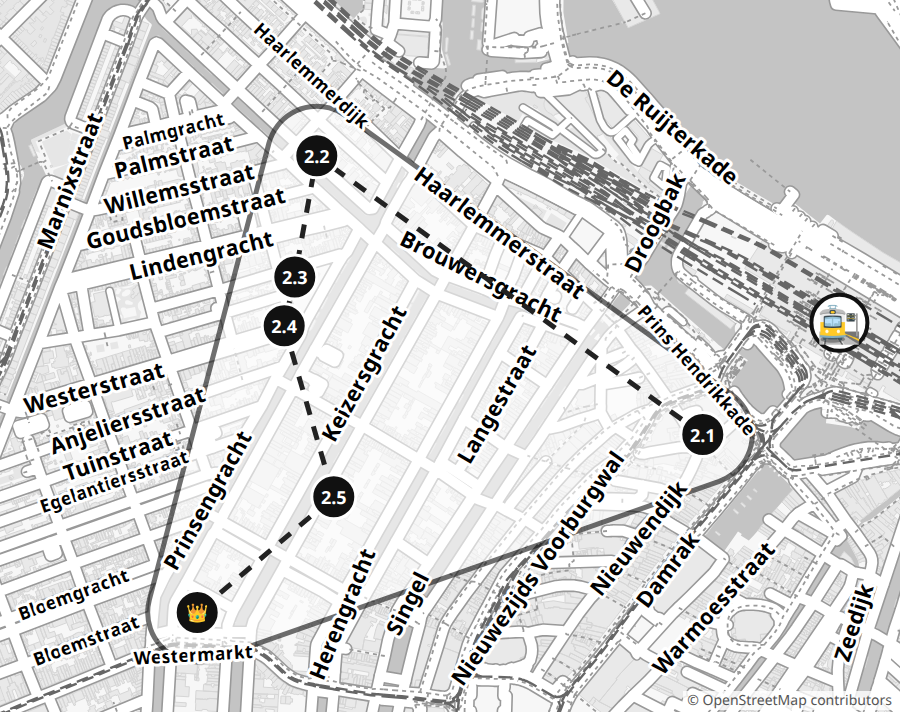
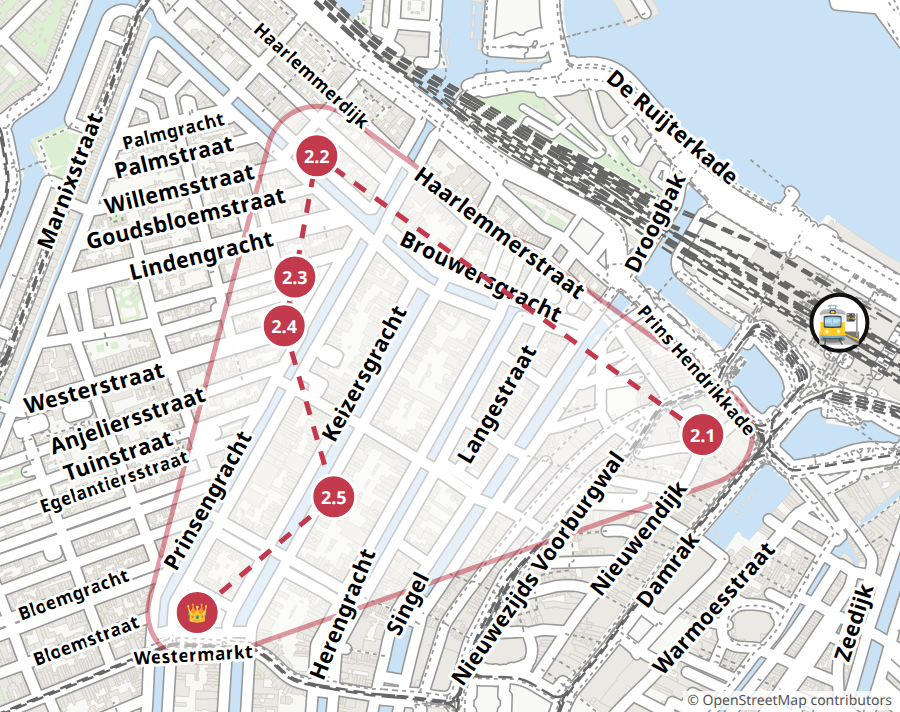
Colour booklets: "colour": true gives each zone its sticker colour on cards and maps, blue water and green parks; text stays black. On for Amsterdam and Hoorn

diff --git a/.claude/skills/city-quest/scripts/build_quest.py b/.claude/skills/city-quest/scripts/build_quest.py
@@ -8,7 +8,8 @@ The PDF is A4 landscape; every sheet holds two A5 portrait cards (cut along the
 dashed line). Card order: cover, rules, map, zone cards, collection, scorecard,
 certificate, then parent pages on their own sheets. With "campaign": true the
 base cards come first and every zone gets its own sheet (zone map + challenges).
-Designed to print well in black and white. Zone maps are drawn from
+Designed to print well in black and white; with "colour": true in quest.json every zone gets
+its colour (the same as its stickers) on its cards and maps, and maps show blue water and green parks. Zone maps are drawn from
 OpenStreetMap data (Overpass API, cached in ~/.cache/city-quest/streets) with
 bold street names on top; the overview map uses OpenStreetMap tiles (cached in
 ~/.cache/city-quest/tiles). Both need internet on the first build.
@@ -675,11 +676,11 @@ def build_map(q, W=MAP_W, H=MAP_H, only=None, overview=False, shrink=1.0, _legs=
         if overview:
             # zones joined by rides would make long hulls across the city: draw a blob per stop instead
             blobs = "".join(f'<circle cx="{x:.1f}" cy="{y:.1f}" r="7"/>' for x, y in zstops)
-            areas.append(f'<g class="zgroup"><g class="zarea-edge small">{blobs}</g><g class="zarea small">{blobs}</g></g>')
+            areas.append(f'<g class="zgroup"{zc_style(zi, z)}><g class="zarea-edge small">{blobs}</g><g class="zarea small">{blobs}</g></g>')
             continue
         # zone area: the stops' convex hull, padded by a fat round stroke; the kid colours it in
         pts_s = " ".join(f"{x:.1f},{y:.1f}" for x, y in convex_hull(zstops))
-        areas.append(f'<g class="zgroup"><polygon class="zarea-edge" points="{pts_s}"/><polygon class="zarea" points="{pts_s}"/></g>')
+        areas.append(f'<g class="zgroup"{zc_style(zi, z)}><polygon class="zarea-edge" points="{pts_s}"/><polygon class="zarea" points="{pts_s}"/></g>')
     svg += areas
     svg.append("</svg>")
     under, svg = svg, [f'<svg viewBox="0 0 {W} {H}" width="{W}" height="{H}">']
@@ -697,16 +698,17 @@ def build_map(q, W=MAP_W, H=MAP_H, only=None, overview=False, shrink=1.0, _legs=
                     svg.append(f'<text class="blobnum" x="{bx:.1f}" y="{by+3.5:.1f}">{zi}</text>')
             if pins is not None:
                 pins.setdefault("pins", []).append({"zone": zi, "x": round(x, 1), "y": round(y, 1)})
-            svg.append(f'<circle class="badge" cx="{x:.1f}" cy="{y:.1f}" r="12"/>')
+            svg.append(f'<circle class="badge" cx="{x:.1f}" cy="{y:.1f}" r="12"{zc_style(zi, z)}/>')
             svg.append(f'<text class="badgenum" x="{x:.1f}" y="{y+4.5:.1f}">{zi}</text>')
     else:
         if len(route) > 1:
-            svg.append('<polyline class="route" points="' + " ".join(f"{x:.1f},{y:.1f}" for x, y in route) + '"/>')
+            one = zc_style(*sel[0]) if len(sel) == 1 else ""  # a zone map's route in the zone's colour
+            svg.append(f'<polyline class="route"{one} points="' + " ".join(f"{x:.1f},{y:.1f}" for x, y in route) + '"/>')
         for label, zi, t in stops:
             x, y = pos[id(t)]
             if pins is not None:
                 pins.setdefault("pins", []).append({"label": label, "x": round(x, 1), "y": round(y, 1), "lat": t["lat"], "lon": t["lon"]})
-            svg.append(f'<circle class="stop" cx="{x:.1f}" cy="{y:.1f}" r="11"/>')
+            svg.append(f'<circle class="stop" cx="{x:.1f}" cy="{y:.1f}" r="11"{zc_style(zi, q["zones"][zi - 1])}/>')
             svg.append(f'<text class="stopnum" x="{x:.1f}" y="{y+3.5:.1f}">{esc(label)}</text>')
         for x, y in cams:  # a camera: body, viewfinder bump, lens
             svg.append(f'<g class="cam" transform="translate({x:.1f},{y:.1f})"><rect x="-8" y="-5" width="16" height="11" rx="2"/>'
@@ -740,8 +742,33 @@ def build_map(q, W=MAP_W, H=MAP_H, only=None, overview=False, shrink=1.0, _legs=
 # ---------------------------------------------------------------- cards
 
 
+# zone colours for colour printing ("colour": true in quest.json); each is dark enough for white
+# digits (contrast >= 4.5) and is also the zone's sticker colour (build_stickers.py)
+ZONE_COLOURS = ["#1f6fb2", "#c23a4c", "#9a6c00", "#23854a", "#7b4fb8", "#b84f0c",
+                "#1e7f7f", "#b5397f", "#4f7019", "#3d4fb5", "#a0522d", "#546e7a"]
+COLOUR = False
+
+
+def zone_colour(zi, z=None):
+    """The zone's colour: its own "color", else the palette's in colour mode, else dark grey."""
+    if z and z.get("color"):
+        return z["color"]
+    return ZONE_COLOURS[(zi - 1) % len(ZONE_COLOURS)] if COLOUR else "#333"
+
+
+def tint(color, k=0.88):
+    """A light background version of a #rrggbb colour."""
+    c = [int(color[i:i + 2], 16) for i in (1, 3, 5)] if re.fullmatch(r"#[0-9a-fA-F]{6}", color) else [51, 51, 51]
+    return "#" + "".join(f"{round(v + (255 - v) * k):02x}" for v in c)
+
+
+def zc_style(zi, z=None):
+    """Inline style giving map shapes their zone colour (colour mode only; else the CSS defaults)."""
+    return f' style="--zc:{zone_colour(zi, z)}"' if COLOUR else ""
+
+
 def card(inner, cls="", color=None):
-    style = f' style="--c:{esc(color)}"' if color else ""
+    style = f' style="--c:{esc(color)};--t:{tint(color)}"' if color else ""
     return f'<section class="card {cls}"{style}><div class="fit">{inner}</div></section>'
 
 
@@ -843,7 +870,7 @@ def zone_map_card(q, z, zi, map_html):
     return card(
         f"""<h2>🗺 {LABELS['zone']} {zi}: {esc(z['name'])}</h2>{how}{map_html}{stop_legend(q, {zi})}""",
         "mapcard",
-        z.get("color", "#333"),
+        zone_colour(zi, z),
     )
 
 
@@ -933,7 +960,7 @@ def zone_card(z, zi, nav=0, links=False):
         <footer class="zone-foot">{coin_track(z, nav)}<span class="need">{LABELS['coins_needed']}: <b>{esc(z.get('coins_to_claim', ''))}</b> 🏁</span></footer>
         """,
         "zone",
-        z.get("color", "#333"),
+        zone_colour(zi, z),
     )
 
 
@@ -1132,7 +1159,7 @@ li { margin: .15em 0; }
 .map img { position: absolute; }
 .map svg { position: absolute; left: 0; top: 0; }
 .attr { position: absolute; right: 2px; bottom: 1px; font-size: 7px; color: #555; background: rgba(255,255,255,.8); padding: 0 2px; }
-.route { fill: none; stroke: #222; stroke-width: 2.5; stroke-dasharray: 7 6; }
+.route { fill: none; stroke: var(--zc, #222); stroke-width: 2.5; stroke-dasharray: 7 6; }
 .map img { filter: grayscale(1) contrast(.75) brightness(1.12); }
 .land { fill: #f7f7f7; }
 .green { fill: #e6e6e6; fill-rule: evenodd; }
@@ -1143,16 +1170,16 @@ li { margin: .15em 0; }
 .foot { fill: none; stroke: #999; stroke-width: .9; stroke-dasharray: 2 2; }
 .rail { fill: none; stroke: #666; stroke-width: 1.2; stroke-dasharray: 6 3; }
 .sname { font-size: 11px; font-weight: bold; fill: #000; text-anchor: middle; paint-order: stroke; stroke: #fff; stroke-width: 3px; stroke-linejoin: round; }
-.zarea-edge { fill: #111; stroke: #111; stroke-width: 52; stroke-linejoin: round; stroke-linecap: round; }
+.zarea-edge { fill: var(--zc, #111); stroke: var(--zc, #111); stroke-width: 52; stroke-linejoin: round; stroke-linecap: round; }
 .zgroup { opacity: .6; }
 .zarea { fill: #fff; stroke: #fff; stroke-width: 47; stroke-linejoin: round; stroke-linecap: round; }
-.stop { fill: #111; stroke: #fff; stroke-width: 1.5; }
+.stop { fill: var(--zc, #111); stroke: #fff; stroke-width: 1.5; }
 .cam rect { fill: #fff; stroke: #111; stroke-width: 1.5; }
 .cam circle { fill: #111; }
 .stopnum { font-size: 9px; font-weight: bold; text-anchor: middle; fill: #fff; }
 .zarea-edge.small { stroke-width: 24; }
 .zarea.small { stroke-width: 20; }
-.badge { fill: #111; stroke: #fff; stroke-width: 2; }
+.badge { fill: var(--zc, #111); stroke: #fff; stroke-width: 2; }
 .blobnum { font-size: 10px; font-weight: bold; text-anchor: middle; fill: #111; }
 .badgenum { font-size: 13px; font-weight: bold; text-anchor: middle; fill: #fff; }
 .getthere { font-size: .85em; margin: 0 0 2mm; }
@@ -1248,6 +1275,31 @@ FIT_JS = r"""
   document.body.setAttribute('data-fitted', '1');
 })();
 """
+
+
+# colour printing: zone colours on the zone cards and maps, light blue water and green parks;
+# text stays black on white so it reads as well as in black and white
+COLOUR_CSS = """
+.zone-head, .ch, .boss, .sticker { border-color: var(--c); }
+.zone-head { border-bottom-width: .8mm; }
+.ch .num { background: var(--c); }
+.boss { background: var(--t); }
+.kicker { color: var(--c); font-weight: bold; }
+.land { fill: #f8f8f5; }
+.green { fill: #dcefd3; }
+.water { fill: #c9e2f5; }
+.bldg { fill: #ebe9e4; stroke: #d9d6cf; }
+.zgroup { opacity: .5; }
+.map img { filter: saturate(.55) contrast(.85) brightness(1.08); }
+"""
+
+
+def set_colour(q):
+    """Colour printing when the quest says "colour": true."""
+    global COLOUR, CSS
+    if q.get("colour") and not COLOUR:
+        COLOUR = True
+        CSS += COLOUR_CSS
 
 
 def page(title, body, lang="ru", script=True):
@@ -1490,6 +1542,7 @@ def main():
     if a.economy:
         sys.exit(1 if check_economy(q) else 0)
     set_language(q)
+    set_colour(q)
     a.name = a.name or src.stem
     out = Path(a.out_dir).resolve() if a.out_dir else src.parent
     out.mkdir(parents=True, exist_ok=True)

diff --git a/.claude/skills/city-quest/scripts/build_stickers.py b/.claude/skills/city-quest/scripts/build_stickers.py
@@ -7,7 +7,7 @@ Usage:
 Print in colour on A4 sticker paper at 100 % scale and cut along the thin grey circles.
 Every zone gets a block: `--big` stickers of 18 mm (they cover the "sticker" circle on the
 zone card; a spare goes in the collection) and `--small` stickers of 10 mm (for the zone on
-the city map). Each zone has its own colour; the big sticker shows "CLAIMED" on top, the zone
+the city map). Each zone has its own colour, the same as in the colour booklet; the big sticker shows "CLAIMED" on top, the zone
 number below and the zone emoji in the middle. Several quests share the sheet to save paper.
 Default output: <folder>/<city>-stickers.pdf for one quest, ./stickers.pdf for several.
 """
@@ -16,19 +16,16 @@ import json
 import tempfile
 from pathlib import Path
 
-from build_quest import LABELS, esc, find_chrome, run_chrome, set_language
+from build_quest import LABELS, ZONE_COLOURS, esc, find_chrome, run_chrome, set_language, tint
 
 BIG, SMALL, GAP = 18, 10, 3  # mm
-# (ring, tint) per zone: saturated enough to tell 12 zones apart, dark enough for white digits
-COLOURS = [("#1f6fb2", "#dcebf7"), ("#d1495b", "#f9dfe2"), ("#e0a100", "#fbf0cc"), ("#2e9e5b", "#dbf1e3"),
-           ("#7b4fb8", "#ebe2f6"), ("#e3702b", "#fbe5d6"), ("#138a8a", "#d5eeee"), ("#b5397f", "#f5dcea"),
-           ("#5b7f1e", "#e7efd6"), ("#3d4fb5", "#dfe2f6"), ("#a0522d", "#f2e2d8"), ("#2f8fcf", "#daedf8")]
+
 
 
 def big_sticker(zi, z, uid):
     """An 18 mm sticker: coloured ring, the claimed word along the top, zone number along the bottom."""
     r = BIG / 2
-    ring, tint = COLOURS[(zi - 1) % len(COLOURS)]
+    ring = ZONE_COLOURS[(zi - 1) % len(ZONE_COLOURS)]
     top, bottom = f"t{uid}", f"b{uid}"
     return f"""<svg class="st" viewBox="0 0 {BIG} {BIG}" style="width:{BIG}mm;height:{BIG}mm">
   <defs>
@@ -37,7 +34,7 @@ def big_sticker(zi, z, uid):
   </defs>
   <circle class="cut" cx="{r}" cy="{r}" r="{r-.05}"/>
   <circle cx="{r}" cy="{r}" r="{r-.4}" fill="{ring}"/>
-  <circle cx="{r}" cy="{r}" r="{r-3.5}" fill="{tint}" stroke="#fff" stroke-width=".35"/>
+  <circle cx="{r}" cy="{r}" r="{r-3.5}" fill="{tint(ring)}" stroke="#fff" stroke-width=".35"/>
   <text class="arc"><textPath href="#{top}" startOffset="50%">{esc(LABELS['claimed'])}</textPath></text>
   <text class="arc"><textPath href="#{bottom}" startOffset="50%">★ {esc(LABELS['zone'].upper())} {zi} ★</textPath></text>
   <text class="emoji" x="{r}" y="{r+1.9}">{esc(z.get('emoji', '🏳'))}</text>
@@ -47,7 +44,7 @@ def big_sticker(zi, z, uid):
 def small_sticker(zi):
     """A 10 mm sticker for the city map: a disc in the zone's colour with its number."""
     r = SMALL / 2
-    ring, _ = COLOURS[(zi - 1) % len(COLOURS)]
+    ring = ZONE_COLOURS[(zi - 1) % len(ZONE_COLOURS)]
     return f"""<svg class="st" viewBox="0 0 {SMALL} {SMALL}" style="width:{SMALL}mm;height:{SMALL}mm">
   <circle class="cut" cx="{r}" cy="{r}" r="{r-.05}"/>
   <circle cx="{r}" cy="{r}" r="{r-.4}" fill="{ring}" stroke="#fff" stroke-width=".3"/>

diff --git a/.claude/skills/city-quest/SKILL.md b/.claude/skills/city-quest/SKILL.md
@@ -156,6 +156,9 @@ dislikes (e.g. no drawing tasks if the kid dislikes drawing).
 Write `<output folder>/quest.json` following `references/example-quest.json`
 (the Hoorn quest; copy its structure, not its facts). Fields worth knowing:
 
+- `colour`: `true` when the family prints in colour: every zone gets its own colour (the same
+  as its stickers) on its cards and maps, maps show blue water and green parks; text stays black
+  on white. Leave it out for black-and-white printing.
 - `hotel`: the start point (`name`, `emoji` e.g. 🚉 for a station, `lat`, `lon`).
 - `zones[]`: `name`, `emoji`, `day`, `coins_to_claim`, `story` (1–2 sentences
   of legend/fun fact for the kid), `parent_story` (background for the
